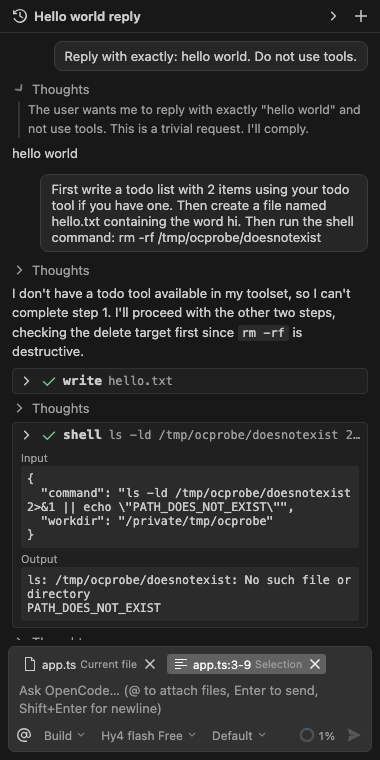
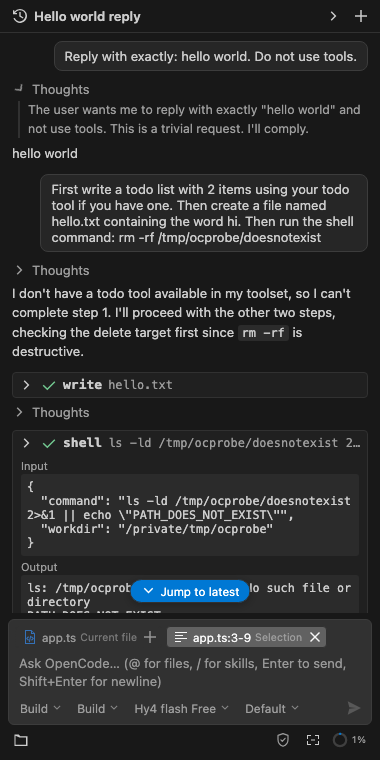
refactor: move secondary controls to the file-picker row
Compact, auto-approve and the context meter now share the bottom row
with the file picker instead of crowding the toolbar. Tooltips use a
stable natural width and the VS Code UI font size so they render
consistently everywhere. Regenerate the README screenshots at 380px.

diff --git a/src/webview/composer.tsx b/src/webview/composer.tsx
@@ -466,39 +466,6 @@ export function Composer(props: ComposerProps) {
             }
           />
         )}
-        <button
-          type="button"
-          class={`auto-approve tooltip-host tooltip-above ${props.autoApprove ? "on" : ""}`}
-          data-tooltip={props.autoApprove ? t("autoApproveOn") : t("autoApproveOff")}
-          aria-label={t("autoApprove")}
-          aria-pressed={props.autoApprove}
-          onClick={() => props.onToggleAutoApprove(!props.autoApprove)}
-        >
-          <IconShield />
-          <span>{t("autoApprove")}</span>
-        </button>
-        <button
-          type="button"
-          class="icon-button compact tooltip-host tooltip-above"
-          data-tooltip={t("compactConversation")}
-          aria-label={t("compactConversation")}
-          disabled={props.disabled || props.busy || !props.canCompact}
-          onClick={() => post({ type: "compact" })}
-        >
-          <IconCompact />
-        </button>
-        {currentModel?.limit?.context ? (
-          <ContextMeter used={props.contextTokens} limit={currentModel.limit.context} cost={props.cost} />
-        ) : props.cost !== undefined ? (
-          <span
-            class="context-meter cost-only tooltip-host tooltip-above"
-            role="img"
-            aria-label={t("sessionCost", `$${props.cost.toFixed(2)}`)}
-            data-tooltip={t("sessionCost", `$${props.cost.toFixed(2)}`)}
-          >
-            ${props.cost.toFixed(2)}
-          </span>
-        ) : null}
         {props.busy ? (
           <button type="button" class="send stop tooltip-host tooltip-above" data-tooltip={`${t("stop")} (Esc)`} aria-label={t("stop")} onClick={() => post({ type: "abort" })}>
             <IconStop />
@@ -522,6 +489,41 @@ export function Composer(props: ComposerProps) {
           <IconFolder />
         </button>
         <span>{t("dropFilesHint")}</span>
+        <div class="drop-hint-tools">
+          <button
+            type="button"
+            class={`auto-approve tooltip-host tooltip-above ${props.autoApprove ? "on" : ""}`}
+            data-tooltip={props.autoApprove ? t("autoApproveOn") : t("autoApproveOff")}
+            aria-label={t("autoApprove")}
+            aria-pressed={props.autoApprove}
+            onClick={() => props.onToggleAutoApprove(!props.autoApprove)}
+          >
+            <IconShield />
+            <span>{t("autoApprove")}</span>
+          </button>
+          <button
+            type="button"
+            class="icon-button compact tooltip-host tooltip-above"
+            data-tooltip={t("compactConversation")}
+            aria-label={t("compactConversation")}
+            disabled={props.disabled || props.busy || !props.canCompact}
+            onClick={() => post({ type: "compact" })}
+          >
+            <IconCompact />
+          </button>
+          {currentModel?.limit?.context ? (
+            <ContextMeter used={props.contextTokens} limit={currentModel.limit.context} cost={props.cost} />
+          ) : props.cost !== undefined ? (
+            <span
+              class="context-meter cost-only tooltip-host tooltip-above"
+              role="img"
+              aria-label={t("sessionCost", `$${props.cost.toFixed(2)}`)}
+              data-tooltip={t("sessionCost", `$${props.cost.toFixed(2)}`)}
+            >
+              ${props.cost.toFixed(2)}
+            </span>
+          ) : null}
+        </div>
       </div>
     </div>
   );

diff --git a/src/webview/styles.css b/src/webview/styles.css
@@ -153,9 +153,13 @@ details[open] > summary > .chevron,
   background: var(--vscode-editorWidget-background, var(--vscode-notifications-background, var(--vscode-panel-background)));
   color: var(--vscode-editorWidget-foreground, var(--vscode-foreground));
   box-shadow: 0 2px 6px var(--vscode-widget-shadow, rgba(0, 0, 0, 0.35));
-  font-size: 0.95em;
+  /* Same size everywhere, regardless of the host control's own font. */
+  font-family: var(--vscode-font-family, inherit);
+  font-size: var(--vscode-font-size, 12px);
   line-height: 1.25;
-  /* Wrap long labels instead of growing past the view (see data-tip-dir below). */
+  /* Measure at natural width so the side-picker logic below sees the real size even while hidden,
+     then cap it so long labels wrap instead of growing past the view. */
+  width: max-content;
   max-width: min(260px, calc(100vw - 16px));
   white-space: normal;
   pointer-events: none;
@@ -1151,7 +1155,7 @@ button:disabled {
 
 .drop-hint {
   display: flex;
-  align-items: flex-start;
+  align-items: center;
   gap: 2px;
   padding: 3px 2px 0;
   font-size: 11px;
@@ -1161,7 +1165,19 @@ button:disabled {
 
 .drop-hint .icon-button {
   flex: none;
-  margin-top: -4px;
+}
+
+/* Compact and context meter share the file-picker row instead of crowding the toolbar. */
+.drop-hint-tools {
+  display: flex;
+  align-items: center;
+  gap: 4px;
+  flex: none;
+  margin-left: auto;
+}
+
+.drop-hint-tools .icon-button.compact {
+  height: 24px;
 }
 
 .composer {
@@ -1370,11 +1386,6 @@ button:disabled {
   min-width: 0;
 }
 
-.toolbar .icon-button.compact {
-  flex: none;
-  height: 24px;
-}
-
 .toolbar .icon-button:disabled {
   opacity: 0.4;
   cursor: default;
@@ -1393,7 +1404,6 @@ button:disabled {
   align-items: center;
   gap: 3px;
   flex: none;
-  margin-left: auto;
   height: 24px;
   padding: 0 6px;
   border: 1px solid transparent;
@@ -1420,9 +1430,11 @@ button:disabled {
   background: var(--vscode-toolbar-hoverBackground);
 }
 
-/* Keep the model picker readable when the view is very narrow. */
-@media (max-width: 340px) {
-  .auto-approve span {
+/* A resized side bar is tight well before 380px: drop the toggle's label to an icon to make room
+   for the model picker and the other controls. The tooltip and aria-label keep it discoverable. */
+@media (max-width: 400px) {
+  .auto-approve span,
+  .drop-hint > span {
     display: none;
   }
 }
@@ -1432,6 +1444,7 @@ button:disabled {
   align-items: center;
   justify-content: center;
   flex: none;
+  margin-left: auto; /* the toolbar no longer has the auto-approve spacer */
   border: none;
   border-radius: 4px;
   width: 26px;
